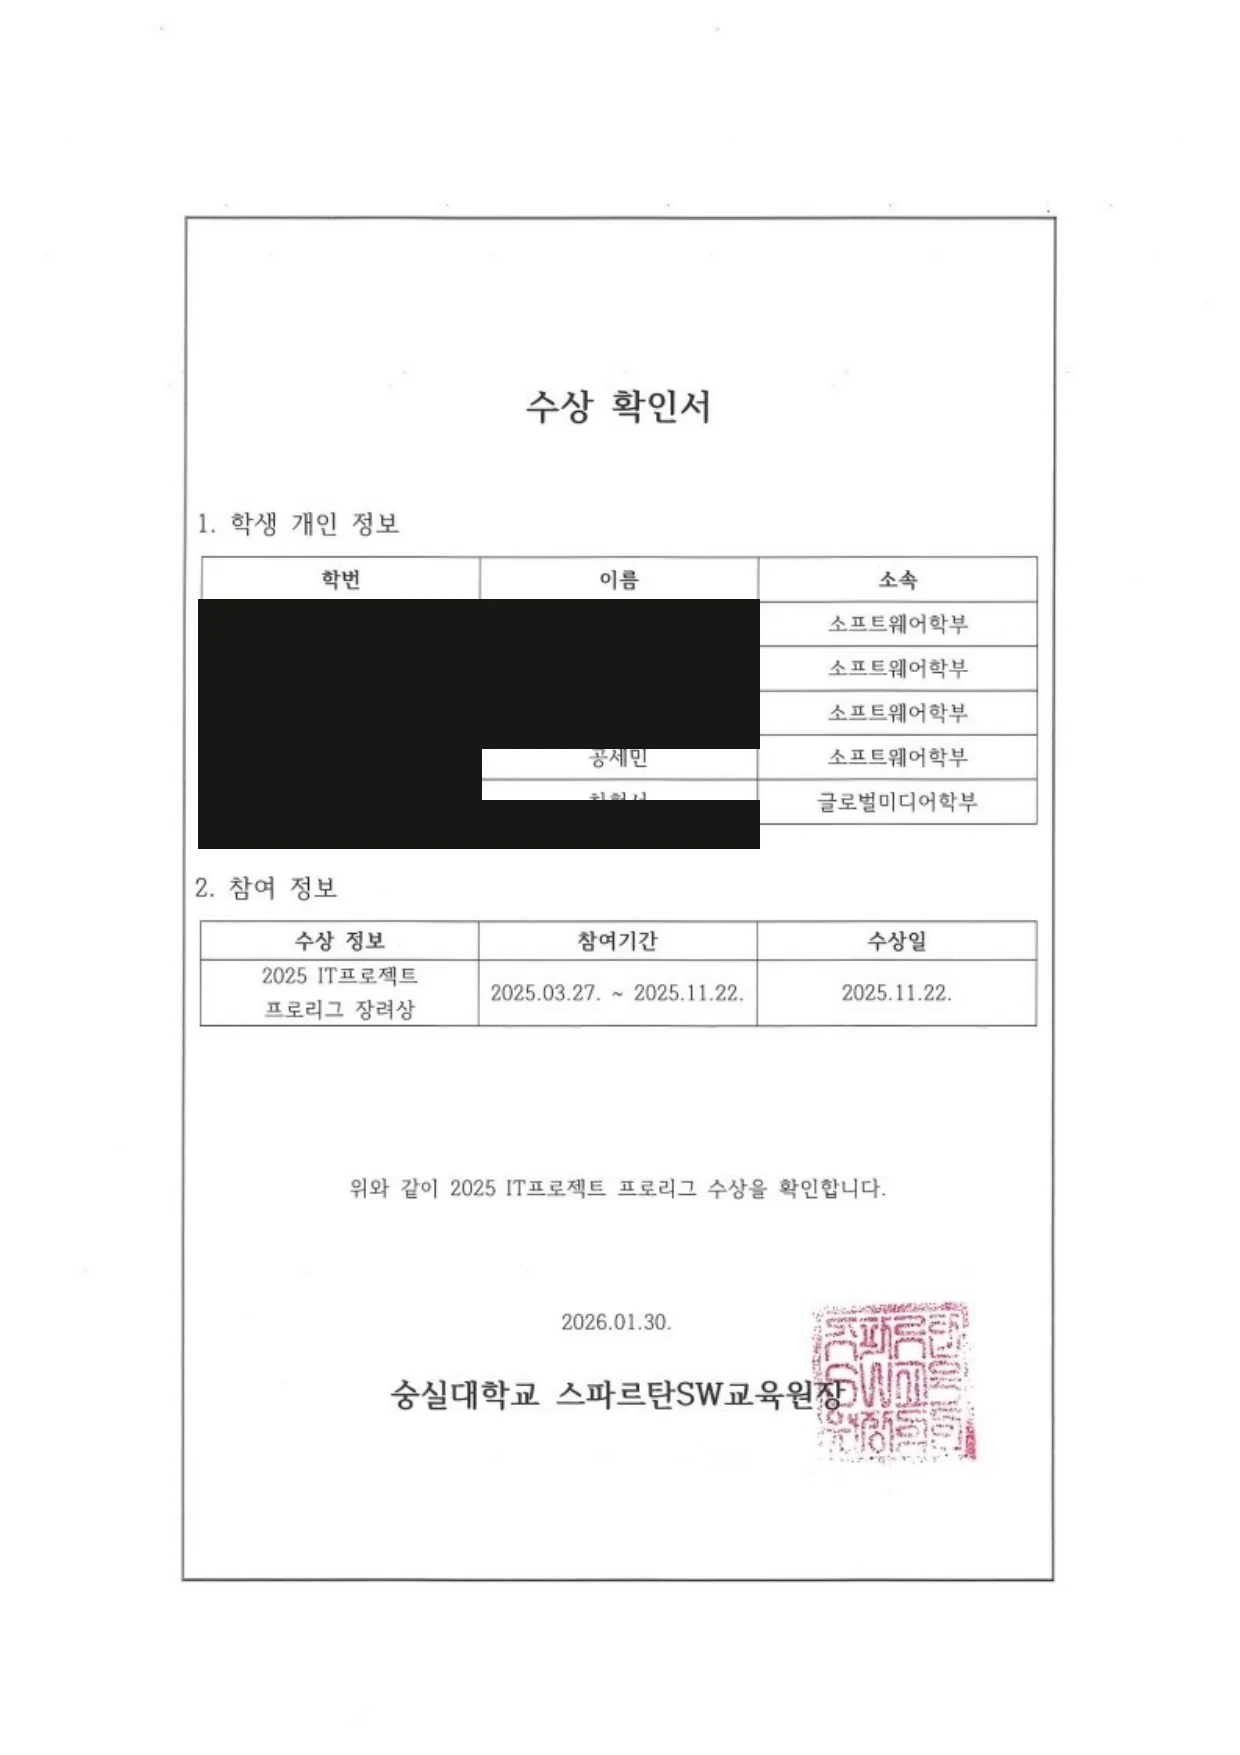
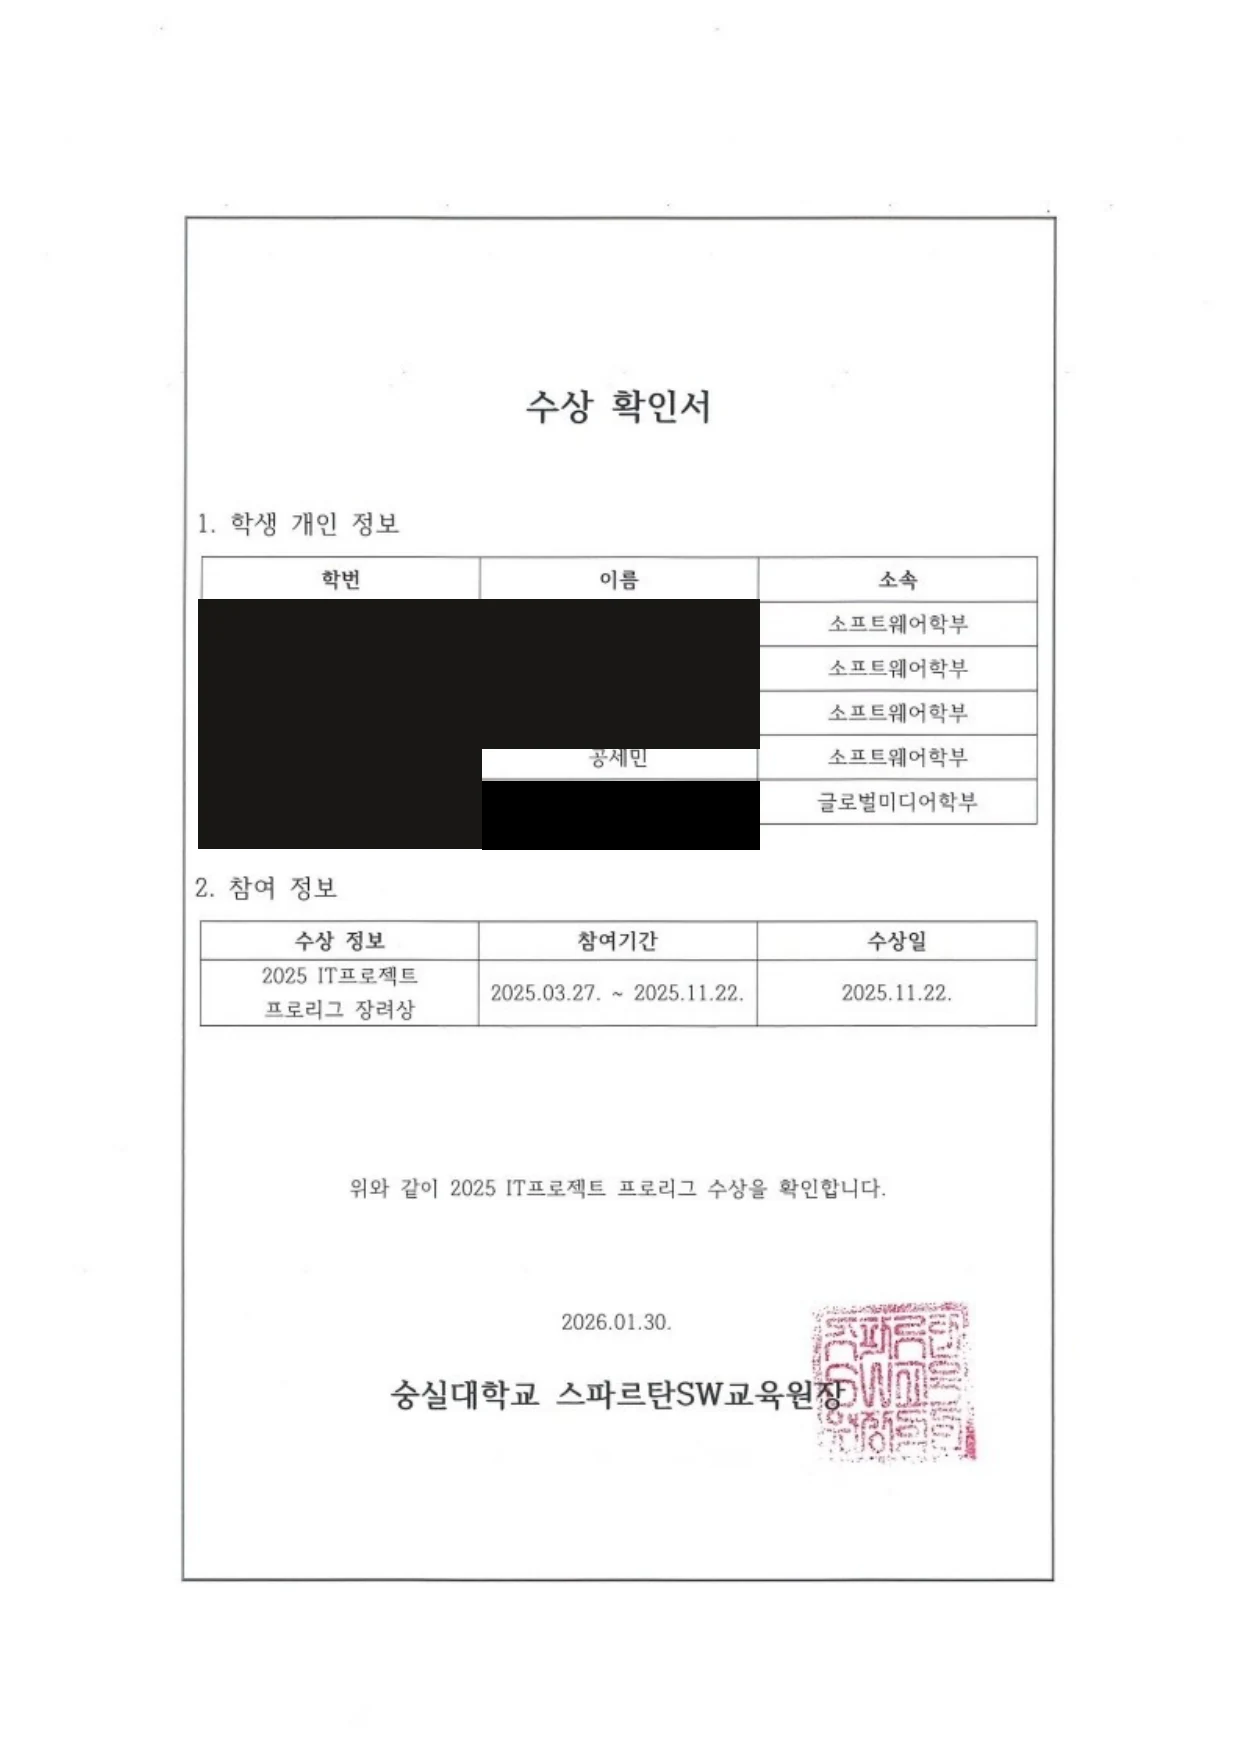
fix: redact award serials for public gallery

Changed region(s): [[0.3677, 0.4308, 0.6129, 0.4923]]

diff --git a/resume/index.html b/resume/index.html
@@ -160,7 +160,7 @@
               <div>
                 <h3>SSAFY Common Project</h3>
                 <p>Excellence Award · AIoT Track, Gwangju Class 1 (1st Place)</p>
-                <button class="award-proof" type="button" lang="ko" data-award-proof data-proof-src="./award-ssafy-common-project.webp" data-proof-width="1240" data-proof-height="1755" data-proof-title="SSAFY 공통 프로젝트 우수상" data-proof-caption="2026년 8월 10일 · 다른 팀원의 이름은 개인정보 보호를 위해 가렸습니다." aria-haspopup="dialog" aria-controls="award-proof-dialog">증빙 보기 <span aria-hidden="true">↗</span></button>
+                <button class="award-proof" type="button" lang="ko" data-award-proof data-proof-src="./award-ssafy-common-project.webp" data-proof-width="1240" data-proof-height="1755" data-proof-title="SSAFY 공통 프로젝트 우수상" data-proof-caption="2026년 8월 10일 · 전시용 이미지입니다. 다른 수상자의 이름과 상장 일련번호를 가렸습니다." aria-haspopup="dialog" aria-controls="award-proof-dialog">상장 보기 <span aria-hidden="true">↗</span></button>
               </div>
               <time datetime="2026-08-10">Aug 10, 2026</time>
             </div>
@@ -170,7 +170,7 @@
               <div>
                 <h3>2025 IT Project Pro League</h3>
                 <p>Encouragement Award · Soongsil University Spartan SW Education Center</p>
-                <button class="award-proof" type="button" lang="ko" data-award-proof data-proof-src="./award-it-project-pro-league.webp" data-proof-width="1240" data-proof-height="1755" data-proof-title="2025 IT 프로젝트 프로리그 장려상" data-proof-caption="2025년 11월 22일 · 학번과 다른 참가자의 이름은 개인정보 보호를 위해 가렸습니다." aria-haspopup="dialog" aria-controls="award-proof-dialog">증빙 보기 <span aria-hidden="true">↗</span></button>
+                <button class="award-proof" type="button" lang="ko" data-award-proof data-proof-src="./award-it-project-pro-league.webp" data-proof-width="1240" data-proof-height="1755" data-proof-title="2025 IT 프로젝트 프로리그 장려상" data-proof-caption="2025년 11월 22일 · 전시용 이미지입니다. 모든 학번과 다른 수상자의 이름을 가렸습니다." aria-haspopup="dialog" aria-controls="award-proof-dialog">상장 보기 <span aria-hidden="true">↗</span></button>
               </div>
               <time datetime="2025-11-22">Nov 22, 2025</time>
             </div>
@@ -180,7 +180,7 @@
               <div>
                 <h3>15th Soongsil Capstone Design Competition</h3>
                 <p>Encouragement Award · Soongsil University</p>
-                <button class="award-proof" type="button" lang="ko" data-award-proof data-proof-src="./award-capstone-design.webp" data-proof-width="1239" data-proof-height="1758" data-proof-title="제15회 숭실 캡스톤디자인 경진대회 장려상" data-proof-caption="2025년 10월 1일 · 다른 팀원의 이름은 개인정보 보호를 위해 가렸습니다." aria-haspopup="dialog" aria-controls="award-proof-dialog">증빙 보기 <span aria-hidden="true">↗</span></button>
+                <button class="award-proof" type="button" lang="ko" data-award-proof data-proof-src="./award-capstone-design.webp" data-proof-width="1239" data-proof-height="1758" data-proof-title="제15회 숭실 캡스톤디자인 경진대회 장려상" data-proof-caption="2025년 10월 1일 · 전시용 이미지입니다. 다른 수상자의 이름과 상장 일련번호를 가렸습니다." aria-haspopup="dialog" aria-controls="award-proof-dialog">상장 보기 <span aria-hidden="true">↗</span></button>
               </div>
               <time datetime="2025-10-01">Oct 1, 2025</time>
             </div>
@@ -190,7 +190,7 @@
               <div>
                 <h3>2025 College of IT Software Competition</h3>
                 <p>Gold Prize · Soongsil University College of IT</p>
-                <button class="award-proof" type="button" lang="ko" data-award-proof data-proof-src="./award-software-competition.webp" data-proof-width="1240" data-proof-height="1755" data-proof-title="2025 IT대학 소프트웨어 공모전 금상" data-proof-caption="2025년 8월 18일 · 다른 팀원의 이름은 개인정보 보호를 위해 가렸습니다." aria-haspopup="dialog" aria-controls="award-proof-dialog">증빙 보기 <span aria-hidden="true">↗</span></button>
+                <button class="award-proof" type="button" lang="ko" data-award-proof data-proof-src="./award-software-competition.webp" data-proof-width="1240" data-proof-height="1755" data-proof-title="2025 IT대학 소프트웨어 공모전 금상" data-proof-caption="2025년 8월 18일 · 전시용 이미지입니다. 다른 수상자의 이름과 상장 일련번호를 가렸습니다." aria-haspopup="dialog" aria-controls="award-proof-dialog">상장 보기 <span aria-hidden="true">↗</span></button>
               </div>
               <time datetime="2025-08-18">Aug 18, 2025</time>
             </div>
@@ -209,16 +209,16 @@
       <div class="award-dialog__panel">
         <header class="award-dialog__header">
           <div>
-            <p lang="en">Award evidence</p>
-            <h2 id="award-dialog-title" data-award-dialog-title>수상 증빙</h2>
+            <p lang="en">Award gallery</p>
+            <h2 id="award-dialog-title" data-award-dialog-title>수상 전시</h2>
           </div>
-          <button class="award-dialog__close" type="button" data-award-dialog-close aria-label="증빙 이미지 닫기"><span aria-hidden="true">×</span></button>
+          <button class="award-dialog__close" type="button" data-award-dialog-close aria-label="상장 이미지 닫기"><span aria-hidden="true">×</span></button>
         </header>
         <figure class="award-dialog__figure">
           <div class="award-dialog__media">
             <img class="award-dialog__image" data-award-dialog-image width="1240" height="1755" decoding="async" alt="" />
           </div>
-          <figcaption id="award-dialog-caption" data-award-dialog-caption>수상 증빙 이미지입니다.</figcaption>
+          <figcaption id="award-dialog-caption" data-award-dialog-caption>개인정보를 가린 전시용 상장 이미지입니다.</figcaption>
         </figure>
       </div>
     </dialog>

diff --git a/src/ui/award-proof-dialog.js b/src/ui/award-proof-dialog.js
@@ -32,11 +32,11 @@ export const initAwardProofDialog = () => {
     }
 
     activeTrigger = trigger;
-    title.textContent = trigger.dataset.proofTitle || '수상 증빙';
-    caption.textContent = trigger.dataset.proofCaption || '수상 증빙 이미지입니다.';
+    title.textContent = trigger.dataset.proofTitle || '수상 전시';
+    caption.textContent = trigger.dataset.proofCaption || '개인정보를 가린 전시용 상장 이미지입니다.';
     image.width = readDimension(trigger.dataset.proofWidth, 1240);
     image.height = readDimension(trigger.dataset.proofHeight, 1755);
-    image.alt = `${title.textContent} 증빙 이미지`;
+    image.alt = `${title.textContent} 전시용 상장 이미지`;
     image.src = trigger.dataset.proofSrc;
 
     document.documentElement.classList.add('award-dialog-open');

diff --git a/docs/decisions.md b/docs/decisions.md
@@ -798,3 +798,10 @@
 - Decision: 제공된 Drive의 네 수상 증서를 확인해 HTML Resume와 1-page DOCX/PDF/PNG를 동기화하고, Awards마다 공개용 세로 WebP를 여는 native modal 버튼을 제공한다. 공개 이미지는 공세민의 이름과 증명에 필요한 수상 사실을 남기되 다른 팀원의 이름과 모든 학번을 불투명하게 가린다.
 - Reason: 수상 이력을 정확한 공식 명칭·등급·날짜로 갱신하면서 방문자가 같은 화면에서 근거를 확인할 수 있어야 하고, 팀 증서에 포함된 제3자의 개인정보는 공개 목적에 필요하지 않다.
 - Impact: `public/resume/` allowlist는 업데이트한 Resume 세 파일과 네 개의 명시된 WebP만 추가 허용한다. 원본 Drive PDF는 저장소와 배포물에 포함하지 않는다. 하나의 native dialog가 네 버튼을 재사용하며 scroll lock, focus trap/복귀, Escape와 실제 백드롭 닫기, reduced-motion 정적 표시를 계약으로 검증한다.
+
+## 2026-09-04 — Awards를 개인정보·일련번호를 가린 전시로 전환
+
+- Decision: 사용자의 요청에 따라 공개 상장 이미지의 일련번호도 불투명하게 가리고, 버튼·modal·접근성 문구를 `상장 보기 / Award gallery / 전시용 이미지`로 통일한다. 공식 증명서 원본을 제공하는 UI가 아니라 수상 기록의 전시다.
+- Scope: SSAFY `(884,208,226,40)`, 캡스톤 `(109,168,301,46)`, SW 공모전 `(214,169,249,63)`의 번호를 가렸다. 프로리그에는 별도 일련번호가 없으며, 공세민 다음 행의 타인 이름 획 잔여를 `(482,781,278,69)`로 보강했다. 좌표는 원본 이미지의 x/y/width/height다.
+- Preservation: 공세민, 발급기관·발급자, 상명·등급·날짜·직인은 유지한다. SW 공모전의 기존 마스크가 덮었던 공세민 끝부분은 실제 원본 PDF의 150dpi raster에서 `(664,734,111,52)`만 가져와 복구했다. 문자 재생성은 사용하지 않았다. 원본 Drive 파일과 공유 권한은 변경하지 않는다.
+- Verification: 이미지 편집 도구의 후보는 해상도·문자 보존 조건을 만족하지 않아 배포하지 않았다. 최종 lossless WebP는 지정된 영역 밖 변경 0픽셀, 새 마스크 안 비검정 0픽셀, 허용 이름 원본 불일치 0픽셀을 검사했다. 수상자·번호 경계를 두 차례 육안 확인하고 승인 파일 해시를 tests에 고정했다.

diff --git a/docs/qa-checklist.md b/docs/qa-checklist.md
@@ -974,3 +974,12 @@ This section supersedes the current-behavior interpretation of earlier checked i
 - [x] 열 때 닫기 버튼으로 focus가 이동하며 단일 focus target의 Tab이 modal 안에서 순환한다. PageDown 중 배경 `scrollY`는 고정되고, Escape와 실제 backdrop 클릭은 정확한 opener로 focus를 복귀시킨다. 이미지 내부 클릭은 닫히지 않으며 다른 수상 재개방 시 title/src/alt가 함께 교체된다.
 - [x] `?motion=reduced`에서 dialog, panel과 backdrop의 computed animation은 모두 `none / 0s`다. 직접 Resume 페이지의 warning/error console log는 비어 있다.
 - [x] `npm.cmd run verify`가 test 11개, source route 11개·stylesheet 12개, production module 766개와 deployment entry 22개를 통과했고 `git diff --check` whitespace error는 0이다.
+
+## 2026-09-04 Award gallery redaction verification
+
+- [x] 4개 공개 이미지와 확대 경계를 직접 확인했다. 일련번호가 있는 세 상장은 번호 전체를 가렸고, 프로리그의 타인 이름 상단 잔여도 가렸다. 공세민 이름·발급자·상명·날짜는 유지됐다.
+- [x] 4개 이미지에서 지정 마스크·허용 복구 영역 밖 변경 0픽셀, 새 마스크 내부 비검정 0픽셀. SW 공모전 이름 복구 영역은 원본 PDF raster와 0픽셀 차이다. SHA-256을 source contract에 갱신했다.
+- [x] 실제 production preview의 390×844, 768×1024, 1280×900에서 modal은 각각 약 355×646, 620×986, 620×866px이다. 모든 경계가 viewport 안에 있고 이미지도 portrait이며 horizontal overflow가 없다.
+- [x] 4개 버튼의 제목·이미지 경로 교체, 이미지 로드, 닫기 버튼 focus, Tab 순환, PageDown 중 배경 scrollY 고정, Escape 후 opener focus 복귀를 확인했다.
+- [x] 390px `?motion=reduced`에서 modal·panel·backdrop animation은 모두 none이며 warning/error console log는 0이다.
+- [x] 상장 작업의 `npm.cmd run verify`: 11 tests, 11 routes, 22 deployment entries 통과. 이후 문구·PDF 연결 변경도 최종 통합 검증 대상으로 둔다.
